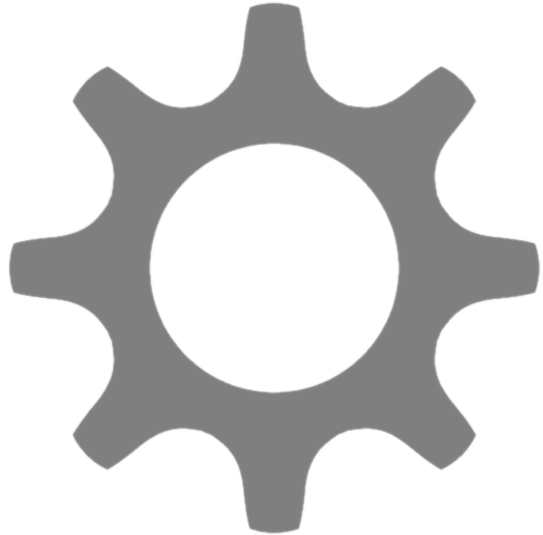
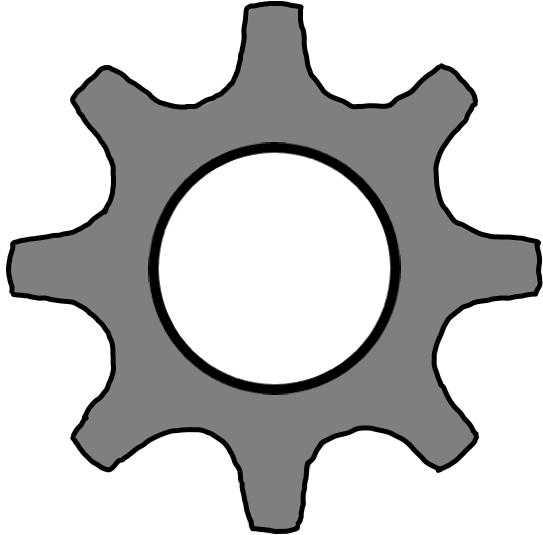
Created a Settings page
Created a JPanel for the Settings page as well as a MouseListener to listen for actions related to the settings page

diff --git a/src/listeners/SettingsButtonListener.java b/src/listeners/SettingsButtonListener.java
@@ -1,0 +1,64 @@
+package listeners;
+import java.awt.*;
+import java.awt.event.*;
+import java.io.*;
+import javax.imageio.ImageIO;
+import javax.swing.*;
+import components.*;
+import main_pkg.Main;
+
+/**
+ * 
+ * @author Patrick Wang, Andrew Yoo
+ * @apiNote The custom MouseListener for the settings button
+ * 
+ */
+public class SettingsButtonListener implements MouseListener{
+    // implement these methods to fulfill abstraction
+    public void mouseClicked(MouseEvent e){}
+    public void mouseReleased(MouseEvent e){}
+
+    public void mousePressed(MouseEvent e){
+        // make settings panel visible
+        MainFrame mainFrame = Main.getMainFrame();
+        mainFrame.setCurrentPanel(MainFrame.SETTINGSPANEL);
+
+        // replace Image Icon of settings button with non-selected form
+        JButton settingsButton = (JButton) e.getSource();
+        try {
+            // load and apply image
+            Image settingsImage = ImageIO.read(new File("assets\\settingsGear.png")).getScaledInstance(100, 100, java.awt.Image.SCALE_SMOOTH);
+			settingsButton.setIcon(new ImageIcon(settingsImage));
+        } catch (IOException exception) {
+            // output traced error
+            exception.printStackTrace();
+        }
+    }
+
+    public void mouseEntered(MouseEvent e){
+        // replace Image Icon of settings button with selected form
+        JButton settingsButton = (JButton) e.getSource();
+        try {
+            // load and apply image
+            Image settingsImage = ImageIO.read(new File("assets\\settingsGearSelected.png")).getScaledInstance(100, 100, java.awt.Image.SCALE_SMOOTH);
+			settingsButton.setIcon(new ImageIcon(settingsImage));
+        } catch (IOException exception) {
+            // output traced error
+            exception.printStackTrace();
+        }
+    }
+
+    public void mouseExited(MouseEvent e){
+        // replace Image Icon of settings button with non-selected form
+        JButton settingsButton = (JButton) e.getSource();
+        try {
+            // load and apply image
+            Image settingsImage = ImageIO.read(new File("assets\\settingsGear.png")).getScaledInstance(100, 100, java.awt.Image.SCALE_SMOOTH);
+			settingsButton.setIcon(new ImageIcon(settingsImage));
+        } catch (IOException exception) {
+            // output traced error
+            exception.printStackTrace();
+        }
+    }
+    
+}

diff --git a/src/components/HomePanel.java b/src/components/HomePanel.java
@@ -12,9 +12,6 @@ import listeners.*;
  *
  */
 public class HomePanel extends JPanel{
-	
-	private static final long serialVersionUID = 1L;
-
 	/**
 	 * 
 	 * @apiNote Constructor for the HomePanel component
@@ -38,6 +35,7 @@ public class HomePanel extends JPanel{
 		playButton.setBorder(null);
 		// add play button image
 		try {
+			// get and set image
 			Image playImage = ImageIO.read(new File("assets\\play.png")).getScaledInstance(300, 150, java.awt.Image.SCALE_SMOOTH);
 			playButton.setIcon(new ImageIcon(playImage));
 
@@ -57,6 +55,7 @@ public class HomePanel extends JPanel{
 		helpButton.setBorder(null);
 		// add help button image
 		try {
+			// get and set image
 			Image helpImage = ImageIO.read(new File("assets\\help.png")).getScaledInstance(300, 150, java.awt.Image.SCALE_SMOOTH);
 			helpButton.setIcon(new ImageIcon(helpImage));
 
@@ -74,6 +73,7 @@ public class HomePanel extends JPanel{
 		title.setBounds(new Rectangle(250, 50, 500, 200));
 		// add title image
 		try {
+			// get and set image
 			Image titleImage = ImageIO.read(new File("assets\\title.png")).getScaledInstance(500, 200, java.awt.Image.SCALE_SMOOTH);
 			title.setIcon(new ImageIcon(titleImage));
 
@@ -102,6 +102,26 @@ public class HomePanel extends JPanel{
 		closeButton.addMouseListener(new CloseGameListener());
 		// add close button to panel
 		this.add(closeButton);
+
+		// create settings button
+		JButton settingsButton = new JButton();
+		settingsButton.setBounds(new Rectangle(855, 30, 100, 100));
+		settingsButton.setContentAreaFilled(false);
+		settingsButton.setBorder(null);
+		// add settings image
+		try {
+			Image settingsImage = ImageIO.read(new File("assets\\settingsGear.png")).getScaledInstance(100, 100, java.awt.Image.SCALE_SMOOTH);
+			settingsButton.setIcon(new ImageIcon(settingsImage));
+
+		} catch (IOException e) {
+			// output traced error
+			e.printStackTrace();
+		}
+		// add a mouse listener to the button
+		settingsButton.addMouseListener(new SettingsButtonListener());
+		// add settings button to panel
+		this.add(settingsButton);
+
 	}
 	
 	// paint graphics onto panel
@@ -111,6 +131,7 @@ public class HomePanel extends JPanel{
 		
 		// apply background
 		try {
+			// get and draw image
 			Image bg = ImageIO.read(new File("assets\\background.png"));
 			g.drawImage(bg, 0, 0, null);
 		} catch (IOException e) {

diff --git a/src/components/MainFrame.java b/src/components/MainFrame.java
@@ -10,18 +10,18 @@ import myClasses.*;
  *
  */
 public class MainFrame extends JFrame{
-
-	private static final long serialVersionUID = 1L;
-	
 	// intialize final static fields
 	public static final int WIDTH = 1000;
 	public static final int HEIGHT = 800;
+
 	public static final int HOMEPANEL = 1;
 	public static final int HELPPANEL = 2;
+	public static final int SETTINGSPANEL = 3;
 
 	// create global components
 	HomePanel home;
 	HelpPanel help;
+	SettingsPanel settings;
 
 	// initialize game data variables
 	private int cookies = 0;
@@ -50,6 +50,8 @@ public class MainFrame extends JFrame{
 		// create the Help panel
 		help = new HelpPanel();
 
+		// create the Settings panel
+		settings = new SettingsPanel();
 
 
 		// set the frame to visible
@@ -81,16 +83,25 @@ public class MainFrame extends JFrame{
 	public void setCurrentPanel(int id){
 		// check for panel id and make that panel visible
 		if (id == HOMEPANEL){
-			this.add(home);
-			this.remove(help);
-			this.revalidate();
-			this.repaint();
+			this.getContentPane().removeAll();
+			this.getContentPane().add(home);
+			this.getContentPane().invalidate();
+			this.getContentPane().revalidate();
+			this.getContentPane().repaint();
 		}
 		else if (id == HELPPANEL){
-			this.add(help);
-			this.remove(home);
-			this.revalidate();
-			this.repaint();
+			this.getContentPane().removeAll();
+			this.getContentPane().add(help);
+			this.getContentPane().invalidate();
+			this.getContentPane().revalidate();
+			this.getContentPane().repaint();
+		}
+		else if (id == SETTINGSPANEL){
+			this.getContentPane().removeAll();
+			this.getContentPane().add(settings);
+			this.getContentPane().invalidate();
+			this.getContentPane().revalidate();
+			this.getContentPane().repaint();
 		}
 	}
 	

diff --git a/src/components/SettingsPanel.java b/src/components/SettingsPanel.java
@@ -1,23 +1,23 @@
 package components;
 import java.awt.*;
 import javax.swing.*;
-import listeners.HelpBackListener;
 import java.io.*;
 import javax.imageio.ImageIO;
+import listeners.*;
 
 /**
  * 
  * @author Patrick Wang, Andrew Yoo
- * @apiNote the JPanel where the user will be able to view how to play
+ * @apiNote the JPanel subclass for the settings page
  * 
  */
-public class HelpPanel extends JPanel{
-	/**
-	 * 
-	 * @apiNote Constructor for the HelpPanel component
-	 * 
-	 */
-    public HelpPanel(){
+public class SettingsPanel extends JPanel{
+    /**
+     * 
+     * @apiNote Constructor for the SettingsPanel component
+     * 
+     */
+    public SettingsPanel(){
         // initialize panel
         this.setLayout(null);
 
@@ -37,11 +37,11 @@ public class HelpPanel extends JPanel{
             // print out traced error
             e.printStackTrace();
         }
-        
-        // add listener to back button
+
+        // re-use HelpBackListener and add it to the back button
         goBack.addMouseListener(new HelpBackListener());
 
-        // add back button
+        // add button to panel
         this.add(goBack);
     }
 
@@ -53,12 +53,11 @@ public class HelpPanel extends JPanel{
 		// apply background
 		try {
             // get and draw image
-			Image bg = ImageIO.read(new File("assets\\helpPanel.png")).getScaledInstance(1000, 770, java.awt.Image.SCALE_SMOOTH);
+			Image bg = ImageIO.read(new File("assets\\background.png")).getScaledInstance(1000, 770, java.awt.Image.SCALE_SMOOTH);
 			g.drawImage(bg, 0, 0, null);
 		} catch (IOException e) {
 			// print traced error
 			e.printStackTrace();
 		}
 	}
-	
 }

diff --git a/src/main_pkg/Main.java b/src/main_pkg/Main.java
@@ -5,8 +5,8 @@ import components.*;
  * 
  * @author Patrick Wang, Andrew Yoo
  * @apiNote Main class where everything starts and is initialized.
+ * 
  */
-
 public class Main {
 	
 	// declare static components

diff --git a/src/listeners/CloseGameListener.java b/src/listeners/CloseGameListener.java
@@ -46,5 +46,4 @@ public class CloseGameListener implements MouseListener {
             exception.printStackTrace();
         }
     }
-    
 }
